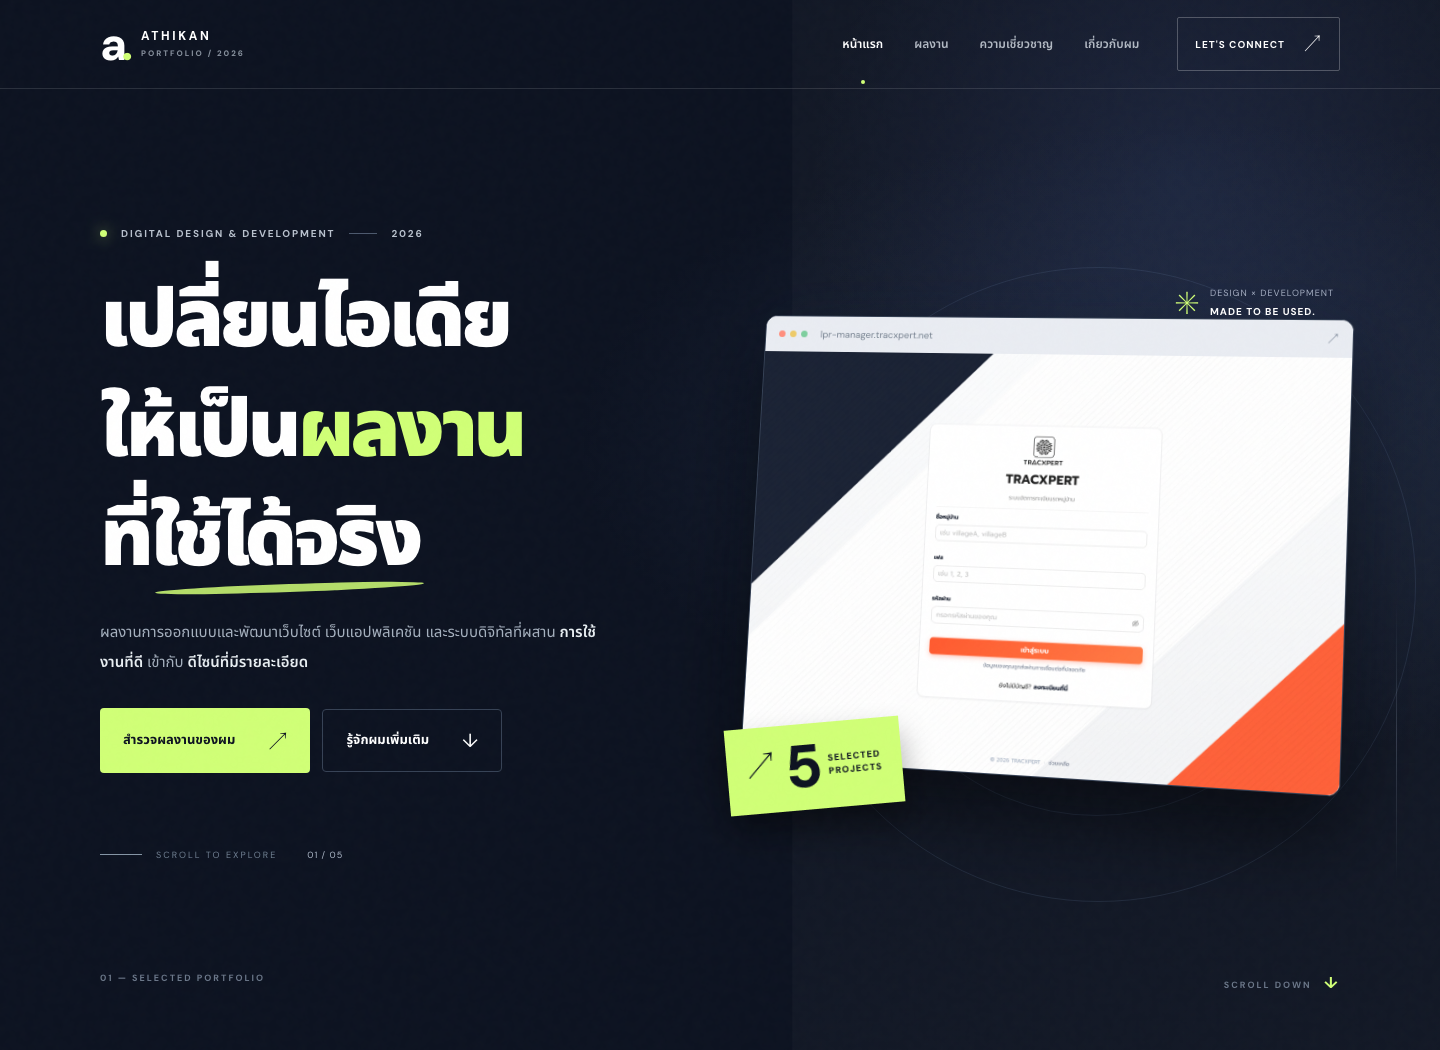
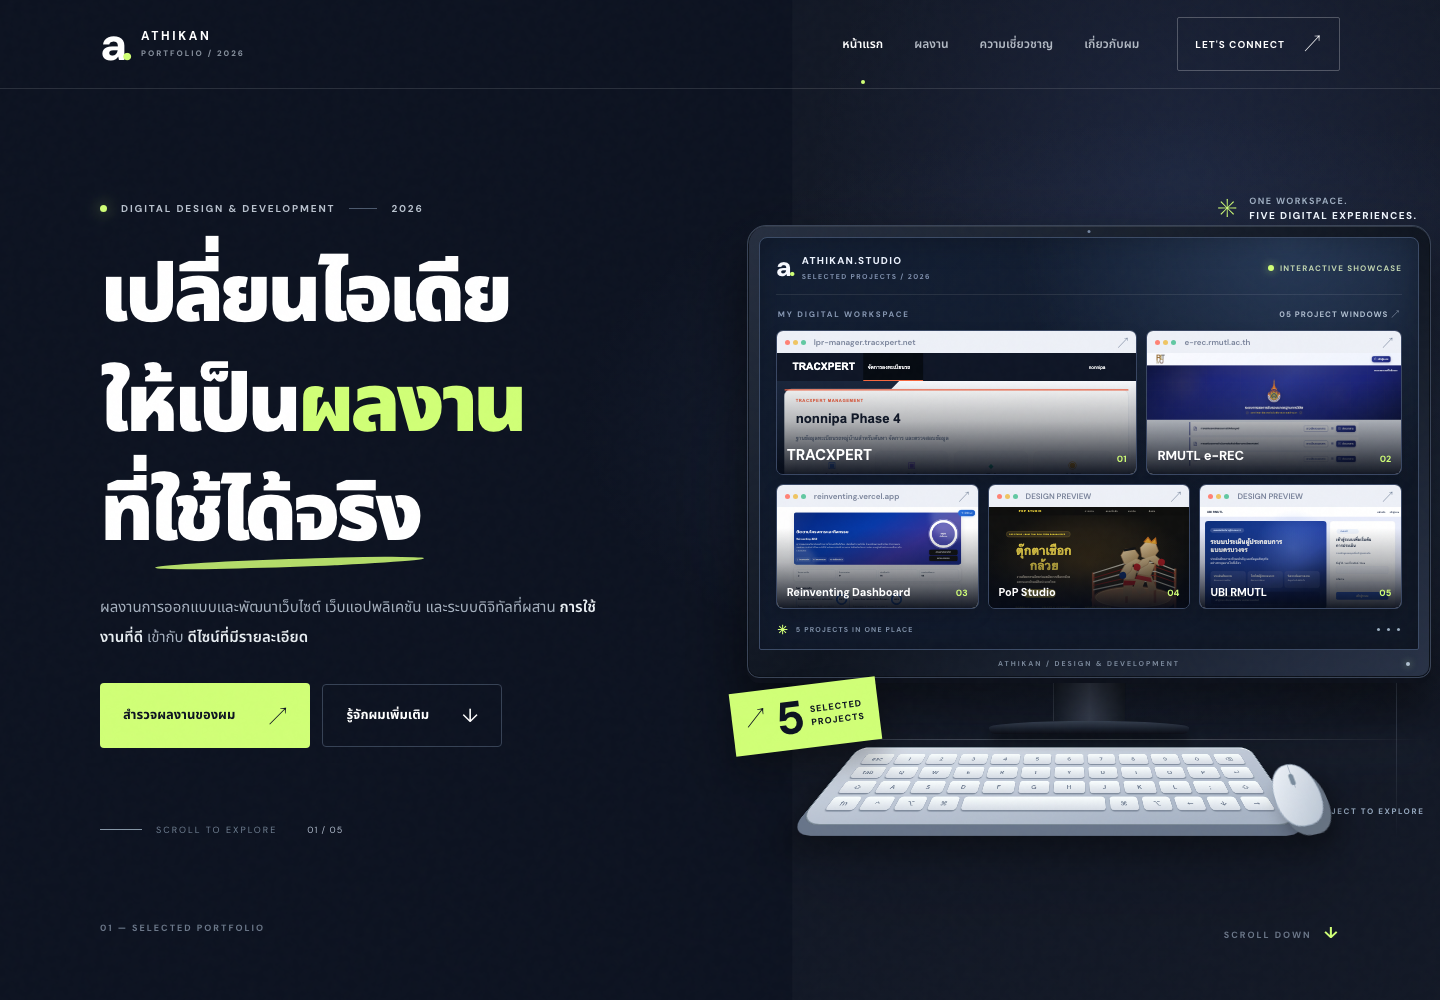
Redesign hero as interactive desktop project showcase

diff --git a/styles.css b/styles.css
@@ -17,3 +17,142 @@
 /* Small-screen layout safeguards */
 @media(max-width:830px){.hero-grid{grid-template-columns:minmax(0,1fr)}.hero-copy,.hero-visual{min-width:0}.menu-toggle{margin-left:auto}}
 @media(max-width:600px){.hero-copy h1{white-space:normal}.hero-description{overflow-wrap:anywhere}.hero-browser{max-width:100%}.hero-visual{max-width:100%;overflow:visible}}
+
+
+/* ===== 2026 / DESKTOP SHOWCASE HERO (interactive, no framework) ===== */
+.hero-section .hero-visual{min-height:600px;margin-left:0;display:flex;align-items:center;justify-content:flex-start;overflow:visible}
+.desk-scene{width:min(700px,115%);max-width:none;position:relative;isolation:isolate;flex-shrink:0;margin-left:-8px;padding-top:35px;padding-bottom:36px;filter:drop-shadow(0 28px 46px rgba(0,0,0,.13))}
+.desk-scene-aura{position:absolute;inset:6% -7% 12%;border-radius:50%;background:radial-gradient(ellipse at center,rgba(88,126,205,.26),rgba(59,85,143,.08) 44%,transparent 71%);filter:blur(34px);pointer-events:none;z-index:-1}
+.desk-scene-note{position:absolute;z-index:4;right:2%;top:-2px;display:flex;align-items:center;gap:11px;color:#9faec1;font:700 9px/1.6 var(--font-en);letter-spacing:1.4px;pointer-events:none}
+.desk-scene-note>span:first-child{color:var(--lime);font-size:26px;font-weight:400}
+.desk-scene-note strong{font-weight:800;color:#eef5fc;font-size:10px}
+.desktop-display{position:relative;z-index:3;width:100%;display:flex;flex-direction:column;align-items:center}
+.desktop-display-shell{width:100%;border:1px solid #394457;padding:11px 11px 0;border-radius:19px 19px 12px 12px;background:linear-gradient(145deg,#262f40 0%,#0e141f 52%,#283247 100%);box-shadow:inset 0 1px 0 #74839a5c,inset 0 0 0 1px #0b1018,0 5px 0 #0c101a,0 25px 50px #0008;position:relative}
+.desktop-display-camera{position:absolute;left:50%;top:4px;transform:translateX(-50%);height:3px;width:3px;border-radius:50%;background:#7586a0}
+.desktop-display-screen{position:relative;overflow:hidden;border-radius:8px 8px 2px 2px;background:radial-gradient(circle at 80% 0%,#263957 0,transparent 40%),linear-gradient(145deg,#121e33,#10192b 60%,#101827);border:1px solid #3b4b66;box-shadow:inset 0 0 30px #0004;padding:16px 16px 11px}
+.desktop-display-screen:before{content:"";position:absolute;inset:0;pointer-events:none;background:repeating-linear-gradient(90deg,transparent 0,transparent 79px,#ffffff05 80px),repeating-linear-gradient(0deg,transparent 0,transparent 79px,#ffffff04 80px);opacity:.45}
+.workspace-topline,.workspace-caption,.hero-project-windows,.workspace-taskbar{position:relative;z-index:1}
+.workspace-topline{display:flex;align-items:center;justify-content:space-between;gap:10px;padding-bottom:13px;border-bottom:1px solid #ffffff17}
+.workspace-identity{display:flex;align-items:center;gap:9px;min-width:0}
+.workspace-logo{font:800 27px/.9 var(--font-en);color:#f8faff;letter-spacing:-3px}
+.workspace-logo span{color:var(--lime)}
+.workspace-identity strong{font:800 10px var(--font-en);letter-spacing:1.3px;color:#eef4ff;display:block;white-space:nowrap}
+.workspace-identity small{font:700 7px var(--font-en);letter-spacing:1.4px;color:#8293b0;display:block;margin-top:5px}
+.workspace-indicator{display:flex;align-items:center;gap:6px;font:700 8px var(--font-en);letter-spacing:1.2px;color:#c2d6b0;white-space:nowrap}
+.workspace-indicator-dot{display:block;height:6px;width:6px;border-radius:50%;background:var(--lime);box-shadow:0 0 9px #cfff76a0}
+.workspace-caption{display:flex;align-items:center;justify-content:space-between;gap:8px;font:700 8px var(--font-en);color:#8899b4;letter-spacing:1.8px;margin:13px 2px 10px}
+.workspace-caption span:last-child{color:#b1bfd0;letter-spacing:1px}
+.hero-project-windows{display:grid;grid-template-columns:repeat(12,minmax(0,1fr));gap:9px}
+.showcase-window{appearance:none;-webkit-appearance:none;display:flex;flex-direction:column;grid-column:span 4;height:125px;min-width:0;min-height:0;position:relative;padding:0;cursor:pointer;text-align:left;color:#fff;background:#19253a;border:1px solid #394763;border-radius:7px;overflow:hidden;box-shadow:0 7px 15px #0003;transition:transform .23s ease,border-color .23s ease,box-shadow .23s ease;isolation:isolate}
+.showcase-window.is-wide{grid-column:span 7;height:145px}
+.showcase-window.is-medium{grid-column:span 5;height:145px}
+.showcase-window:hover,.showcase-window:focus-visible{transform:translateY(-4px);border-color:var(--lime);box-shadow:0 13px 26px #0008,0 0 0 1px #cfff7690;z-index:3}
+.showcase-window:focus-visible{outline:2px solid var(--lime);outline-offset:2px}
+.showcase-browser-bar{flex:0 0 22px;display:flex;align-items:center;gap:8px;padding:0 8px;background:#edf0f7;position:relative;z-index:1}
+.showcase-browser-dots{display:flex;gap:3px;flex-shrink:0}
+.showcase-browser-dots i{width:5px;height:5px;border-radius:50%;background:#ff8275;display:block}
+.showcase-browser-dots i:nth-child(2){background:#efc563}
+.showcase-browser-dots i:nth-child(3){background:#62c8a2}
+.showcase-browser-address{min-width:0;flex:1;font:600 8px var(--font-en);color:#788299;overflow:hidden;text-overflow:ellipsis;white-space:nowrap}
+.showcase-browser-action{font:800 11px var(--font-en);color:#728098}
+.showcase-screenshot{width:100%;height:calc(100% - 22px);object-fit:cover;object-position:top center;display:block;filter:saturate(.93);transition:transform .35s}
+.showcase-window:hover .showcase-screenshot{transform:scale(1.065)}
+.showcase-window:after{content:"";position:absolute;inset:35% 0 0;background:linear-gradient(transparent 0%,rgba(5,10,19,.3) 43%,rgba(4,9,21,.94) 100%);pointer-events:none;z-index:1}
+.showcase-window-footer{position:absolute;z-index:2;left:10px;right:10px;bottom:9px;display:flex;align-items:flex-end;justify-content:space-between;gap:7px;min-width:0;pointer-events:none}
+.showcase-window-label{font:800 11px/1.3 var(--font-en);letter-spacing:-.1px;color:#fff;white-space:nowrap;overflow:hidden;text-overflow:ellipsis}
+.showcase-window-number{flex-shrink:0;font:800 9px var(--font-en);color:var(--lime)}
+.showcase-window.is-wide .showcase-window-label{font-size:15px}
+.showcase-window.is-medium .showcase-window-label{font-size:13px}
+.workspace-taskbar{display:flex;align-items:center;justify-content:space-between;gap:8px;padding:12px 2px 0;font:700 7px var(--font-en);letter-spacing:1.2px;color:#8292aa}
+.workspace-taskbar>div{display:flex;align-items:center;gap:7px}
+.taskbar-mark{font-size:13px;color:var(--lime)}
+.taskbar-dots span{height:3px;width:3px;border-radius:50%;background:#9baec0;display:block}
+.desktop-display-chin{height:27px;display:flex;justify-content:center;align-items:center;position:relative}
+.display-chin-brand{font:700 7px var(--font-en);letter-spacing:2px;color:#7d8b9e}
+.desktop-display-power{position:absolute;right:9px;height:4px;width:4px;border-radius:50%;background:#b0c0d0;box-shadow:0 0 7px #d4fba996}
+.desktop-display-neck{width:73px;height:43px;background:linear-gradient(90deg,#141b27,#394153 50%,#151b25);border-left:1px solid #66748a50;border-right:1px solid #111826}
+.desktop-display-foot{width:200px;height:13px;border-radius:52% 52% 6px 6px;background:linear-gradient(180deg,#3b4658 0%,#1a212e 60%,#0b0d16 100%);box-shadow:0 8px 12px #0007}
+.desk-surface{height:1px;width:100%;margin-top:5px;background:linear-gradient(90deg,transparent,#77879a4d 12%,#c6d0d659 55%,transparent);box-shadow:0 14px 35px 4px #c1d7ed14}
+.desk-accessories{position:relative;z-index:2;display:flex;justify-content:center;align-items:flex-start;gap:24px;height:72px;perspective:700px;padding-top:7px}
+.desktop-keyboard{position:relative;width:60%;max-width:390px;padding:10px 13px 14px;border:1px solid #7a8996;background:linear-gradient(170deg,#dae1eb,#a6b2c4 92%);border-radius:11px 11px 18px 18px;transform:perspective(600px) rotateX(50deg);transform-origin:50% 0;box-shadow:0 10px 0 #677489,0 24px 27px #0005,inset 0 1px 1px #fff}
+.key-row{display:flex;gap:4px;margin-bottom:4px}
+.key-row:last-child{margin-bottom:0}
+.key-row span{flex:1;min-width:0;height:15px;display:flex;align-items:center;justify-content:center;border-radius:3px;background:linear-gradient(#faffff,#d6dce5);box-shadow:0 1.5px 1px #7f8b9c;color:#738094;font:700 6px var(--font-en)}
+.key-row .keyboard-space{flex:5}
+.desktop-mouse{position:relative;flex-shrink:0;margin-top:12px;width:47px;height:68px;border-radius:49% 49% 42% 42%;transform:perspective(300px) rotateX(25deg) rotate(-12deg);background:linear-gradient(125deg,#f3f7fc,#b5c1d0);border:1px solid #9baabc;box-shadow:4px 9px 0 #667282,7px 17px 23px #0006}
+.desktop-mouse:before{content:"";position:absolute;top:0;left:50%;width:1px;height:27px;background:#aab7c5}
+.desktop-mouse-wheel{position:absolute;top:11px;left:50%;transform:translateX(-50%);width:5px;height:13px;border-radius:8px;background:#788a9c}
+.hero-visual .hero-image-sticker{position:absolute;z-index:5;left:-15px;bottom:100px;transform:rotate(-7deg);padding:11px 14px;pointer-events:none}
+.hero-visual .hero-image-sticker strong{font-size:46px}
+.hero-visual .hero-image-sticker .sticker-icon{font-size:20px}
+.desk-scene-hint{position:absolute;right:1%;bottom:28px;white-space:nowrap;color:#96a9bf;font:700 8px var(--font-en);letter-spacing:1.6px}
+.desk-scene-hint .hint-pointer{font-size:19px;color:var(--lime);margin-right:8px}
+@media(min-width:1400px){.desk-scene{transform:translateX(10px)}}
+@media(max-width:1120px){
+ .hero-section .hero-visual{min-height:545px}
+ .desk-scene{width:110%;margin-left:-14px}
+ .desktop-display-screen{padding:13px 13px 9px}
+ .hero-project-windows{gap:7px}
+ .showcase-window{height:109px}
+ .showcase-window.is-wide,.showcase-window.is-medium{height:129px}
+ .desktop-display-neck{height:37px}
+ .desk-accessories{height:60px}
+ .desk-scene-note{right:3%}
+}
+@media(max-width:830px){
+ .hero-section .hero-visual{min-height:0;margin:26px 0 0;display:block}
+ .desk-scene{width:min(690px,100%);margin:0 auto;padding:34px 0 35px}
+ .desktop-display-screen{padding:16px}
+ .showcase-window{height:125px}
+ .showcase-window.is-wide,.showcase-window.is-medium{height:145px}
+ .desk-scene-note{top:0;right:3%}
+ .hero-visual .hero-image-sticker{left:-4px;bottom:96px}
+}
+@media(max-width:600px){
+ .hero-section .hero-visual{margin:24px 0 0;min-height:0}
+ .desk-scene{padding:24px 0 25px}
+ .desk-scene-note{top:-4px;right:2%;font-size:7px;gap:7px}
+ .desk-scene-note>span:first-child{font-size:20px}
+ .desk-scene-note strong{font-size:8px}
+ .desktop-display-shell{border-radius:13px 13px 9px 9px;padding:7px 7px 0}
+ .desktop-display-screen{padding:9px 9px 8px;border-radius:5px 5px 1px 1px}
+ .workspace-topline{padding-bottom:8px}
+ .workspace-logo{font-size:22px}
+ .workspace-identity strong{font-size:8px;letter-spacing:.8px}
+ .workspace-identity small{font-size:6px;letter-spacing:.5px;margin-top:3px}
+ .workspace-indicator{font-size:6px;letter-spacing:0}
+ .workspace-caption{font-size:6px;letter-spacing:.6px;margin:10px 1px 8px}
+ .workspace-caption span:last-child{letter-spacing:0}
+ .hero-project-windows{grid-template-columns:repeat(2,minmax(0,1fr));gap:6px}
+ .showcase-window,.showcase-window.is-medium{grid-column:span 1;height:94px;border-radius:5px}
+ .showcase-window.is-wide{grid-column:span 2;height:124px}
+ .showcase-browser-bar{flex-basis:17px;padding-inline:5px;gap:4px}
+ .showcase-browser-dots{gap:2px}
+ .showcase-browser-dots i{height:4px;width:4px}
+ .showcase-browser-address{font-size:6px}
+ .showcase-browser-action{font-size:9px}
+ .showcase-screenshot{height:calc(100% - 17px)}
+ .showcase-window-footer{bottom:5px;left:6px;right:6px}
+ .showcase-window-label,.showcase-window.is-medium .showcase-window-label{font-size:9px}
+ .showcase-window.is-wide .showcase-window-label{font-size:12px}
+ .showcase-window-number{font-size:7px}
+ .workspace-taskbar{font-size:6px;padding:8px 1px 0;letter-spacing:.7px}
+ .desktop-display-chin{height:19px}
+ .display-chin-brand{font-size:5px;letter-spacing:1px}
+ .desktop-display-neck{width:47px;height:27px}
+ .desktop-display-foot{width:125px;height:9px}
+ .desk-accessories{height:48px;gap:12px}
+ .desktop-keyboard{padding:6px 8px 8px;width:62%;border-radius:6px}
+ .key-row{gap:2px;margin-bottom:2px}
+ .key-row span{height:11px;font-size:4px;border-radius:2px}
+ .desktop-mouse{width:30px;height:45px;margin-top:8px}
+ .desktop-mouse-wheel{top:7px;height:9px;width:4px}
+ .desktop-mouse:before{height:18px}
+ .hero-visual .hero-image-sticker{left:-9px;bottom:70px;padding:8px 9px}
+ .hero-visual .hero-image-sticker strong{font-size:32px}
+ .hero-visual .hero-image-sticker .sticker-icon{font-size:16px}
+ .hero-visual .hero-image-sticker small{font-size:6px}
+ .desk-scene-hint{bottom:6px;font-size:6px;right:0}
+ .desk-scene-hint .hint-pointer{font-size:12px;margin-right:3px}
+}
+@media(prefers-reduced-motion:reduce){.showcase-window,.showcase-screenshot{transition:none}}

diff --git a/index.html b/index.html
@@ -44,15 +44,43 @@
           <div class="hero-actions"><a href="#projects" class="btn btn-primary">สำรวจผลงานของผม <span aria-hidden="true">↗</span></a><a href="#about" class="btn btn-outline">รู้จักผมเพิ่มเติม <span aria-hidden="true">↓</span></a></div>
           <div class="hero-footnote"><span class="scroll-line" aria-hidden="true"></span> SCROLL TO EXPLORE <span class="hero-footnote-num">01 / 05</span></div>
         </div>
-        <div class="hero-visual" aria-label="ตัวอย่างหน้าจอเว็บแอปพลิเคชัน">
-          <div class="hero-orbit orbit-1" aria-hidden="true"></div><div class="hero-orbit orbit-2" aria-hidden="true"></div>
-          <div class="hero-floating-label"><span class="floating-spark">✳</span> <span>DESIGN × DEVELOPMENT<br><strong>MADE TO BE USED.</strong></span></div>
-          <div class="hero-browser">
-            <div class="browser-topbar"><div class="browser-dots"><i></i><i></i><i></i></div><span>lpr-manager.tracxpert.net</span><span class="browser-lock">↗</span></div>
-            <div class="hero-screen"><img src="assets/tracxpert-login.png" alt="หน้าจอเข้าสู่ระบบ TRACXPERT" fetchpriority="high"></div>
+        <div class="hero-visual" aria-label="จอมอนิเตอร์แสดงตัวอย่างโปรเจกต์ที่สามารถคลิกดูรายละเอียดได้">
+          <div class="desk-scene">
+            <div class="desk-scene-aura" aria-hidden="true"></div>
+            <div class="desk-scene-note" aria-hidden="true"><span>✳</span><span>ONE WORKSPACE.<br><strong>FIVE DIGITAL EXPERIENCES.</strong></span></div>
+            <div class="desktop-display">
+              <div class="desktop-display-shell">
+                <div class="desktop-display-camera" aria-hidden="true"></div>
+                <div class="desktop-display-screen">
+                  <div class="workspace-topline">
+                    <div class="workspace-identity"><span class="workspace-logo">a<span>.</span></span><span><strong>ATHIKAN.STUDIO</strong><small>SELECTED PROJECTS / 2026</small></span></div>
+                    <div class="workspace-indicator"><span class="workspace-indicator-dot"></span><span>INTERACTIVE SHOWCASE</span></div>
+                  </div>
+                  <div class="workspace-caption"><span>MY DIGITAL WORKSPACE</span><span>05 PROJECT WINDOWS <span aria-hidden="true">↗</span></span></div>
+                  <div id="hero-project-windows" class="hero-project-windows" aria-label="เลือกโปรเจกต์เพื่อดูรายละเอียด"></div>
+                  <div class="workspace-taskbar" aria-hidden="true">
+                    <div><span class="taskbar-mark">✳</span> <span>5 PROJECTS IN ONE PLACE</span></div>
+                    <div class="taskbar-dots"><span></span><span></span><span></span></div>
+                  </div>
+                </div>
+                <div class="desktop-display-chin"><span class="display-chin-brand">ATHIKAN / DESIGN & DEVELOPMENT</span><span class="desktop-display-power"></span></div>
+              </div>
+              <div class="desktop-display-neck"></div>
+              <div class="desktop-display-foot"></div>
+            </div>
+            <div class="desk-surface" aria-hidden="true"></div>
+            <div class="desk-accessories" aria-hidden="true">
+              <div class="desktop-keyboard">
+                <div class="key-row"><span>esc</span><span>1</span><span>2</span><span>3</span><span>4</span><span>5</span><span>6</span><span>7</span><span>8</span><span>9</span><span>0</span><span>⌫</span></div>
+                <div class="key-row"><span>tab</span><span>Q</span><span>W</span><span>E</span><span>R</span><span>T</span><span>Y</span><span>U</span><span>I</span><span>O</span><span>P</span><span>↵</span></div>
+                <div class="key-row"><span>⇧</span><span>A</span><span>S</span><span>D</span><span>F</span><span>G</span><span>H</span><span>J</span><span>K</span><span>L</span><span>;</span><span>⇧</span></div>
+                <div class="key-row"><span>fn</span><span>⌃</span><span>⌥</span><span>⌘</span><span class="keyboard-space"></span><span>⌘</span><span>⌥</span><span>←</span><span>↓</span><span>→</span></div>
+              </div>
+              <div class="desktop-mouse"><span class="desktop-mouse-wheel"></span></div>
+            </div>
+            <div class="hero-image-sticker" aria-hidden="true"><span class="sticker-icon">↗</span><strong>5</strong><small>SELECTED<br>PROJECTS</small></div>
+            <span class="desk-scene-hint" aria-hidden="true"><span class="hint-pointer">↖</span> CLICK A PROJECT TO EXPLORE</span>
           </div>
-          <div class="hero-image-sticker"><span class="sticker-icon">↗</span><strong>5</strong><small>SELECTED<br>PROJECTS</small></div>
-          <div class="hero-side-text" aria-hidden="true">CRAFTED WITH PURPOSE — 2026</div>
         </div>
       </div>
       <div class="page-wrap hero-bottom"><span>01 — SELECTED PORTFOLIO</span><span>SCROLL DOWN <span class="down-arrow">↓</span></span></div>

diff --git a/script.js b/script.js
@@ -106,6 +106,26 @@ document.getElementById("share-portfolio").addEventListener("click",async functi
  catch(e){const field=document.createElement("textarea");field.value=url;document.body.appendChild(field);field.select();let success=false;try{success=document.execCommand("copy")}catch(err){}field.remove();notify(success?"คัดลอกลิงก์ Portfolio แล้ว":"ไม่สามารถคัดลอกอัตโนมัติได้")}
 });
 document.getElementById("year").textContent=new Date().getFullYear();
+function renderHeroWorkspace(){
+ const board=document.getElementById("hero-project-windows");
+ if(!board)return;
+ const sizes=["is-wide","is-medium","","",""];
+ board.innerHTML=projects.map(function(p,index){
+  const domain=p.live?new URL(p.live).hostname.replace(/^www\./,""):"DESIGN PREVIEW";
+  const src=p.cover||(p.images&&p.images[0]&&p.images[0].src)||"assets/preview-fallback.svg";
+  return '<button type="button" class="showcase-window '+(sizes[index]||"")+'" data-project="'+clean(p.id)+'" aria-label="ดูรายละเอียดโปรเจกต์ '+clean(p.title)+'">'
+    +'<span class="showcase-browser-bar" aria-hidden="true"><span class="showcase-browser-dots"><i></i><i></i><i></i></span><span class="showcase-browser-address">'+clean(domain)+'</span><span class="showcase-browser-action">↗</span></span>'
+    +'<img class="showcase-screenshot" src="'+clean(src)+'" alt="" loading="eager" decoding="async">'
+    +'<span class="showcase-window-footer"><span class="showcase-window-label">'+clean(p.title)+'</span><span class="showcase-window-number">'+String(index+1).padStart(2,"0")+'</span></span>'
+    +'</button>';
+ }).join("");
+ board.addEventListener("click",function(event){
+  const tile=event.target.closest(".showcase-window[data-project]");
+  if(tile)openProject(tile.dataset.project,true);
+ });
+}
+
+renderHeroWorkspace();
 render("all");
 const deep=location.hash.match(/^#project-([a-z0-9-]+)$/);
 if(deep)requestAnimationFrame(function(){openProject(deep[1],false)});

diff --git a/README.md b/README.md
@@ -33,3 +33,7 @@ python3 -m http.server 4173
 ## เผยแพร่
 
 เว็บนี้เป็น Static Website ไม่ต้องมี Backend สามารถ Deploy บน GitHub Pages, Netlify หรือ Vercel ได้ทันที โดยตั้ง root directory ไปยังโฟลเดอร์นี้
+
+## Interactive desktop showcase (Hero)
+
+หน้าแรกมีจอมอนิเตอร์จำลองพร้อมขาตั้ง คีย์บอร์ด เมาส์ และหน้าต่างตัวอย่างโปรเจกต์ 5 รายการ โดยอ่านรายการจาก `data.js` อัตโนมัติ คลิกหน้าต่างเพื่อเปิดหน้ารายละเอียดโปรเจกต์เดิม (modal) ไม่ได้ฝังเว็บไซต์ภายนอกผ่าน iframe จึงไม่ติดปัญหา X-Frame-Options/CSP ของเว็บที่อาจไม่อนุญาตให้ฝังหน้าจอ ทั้งนี้เว็บไซต์จริง 3 แห่งยังเปิดผ่านปุ่ม LIVE WEBSITE ในรายละเอียดโปรเจกต์ได้ตามเดิม
